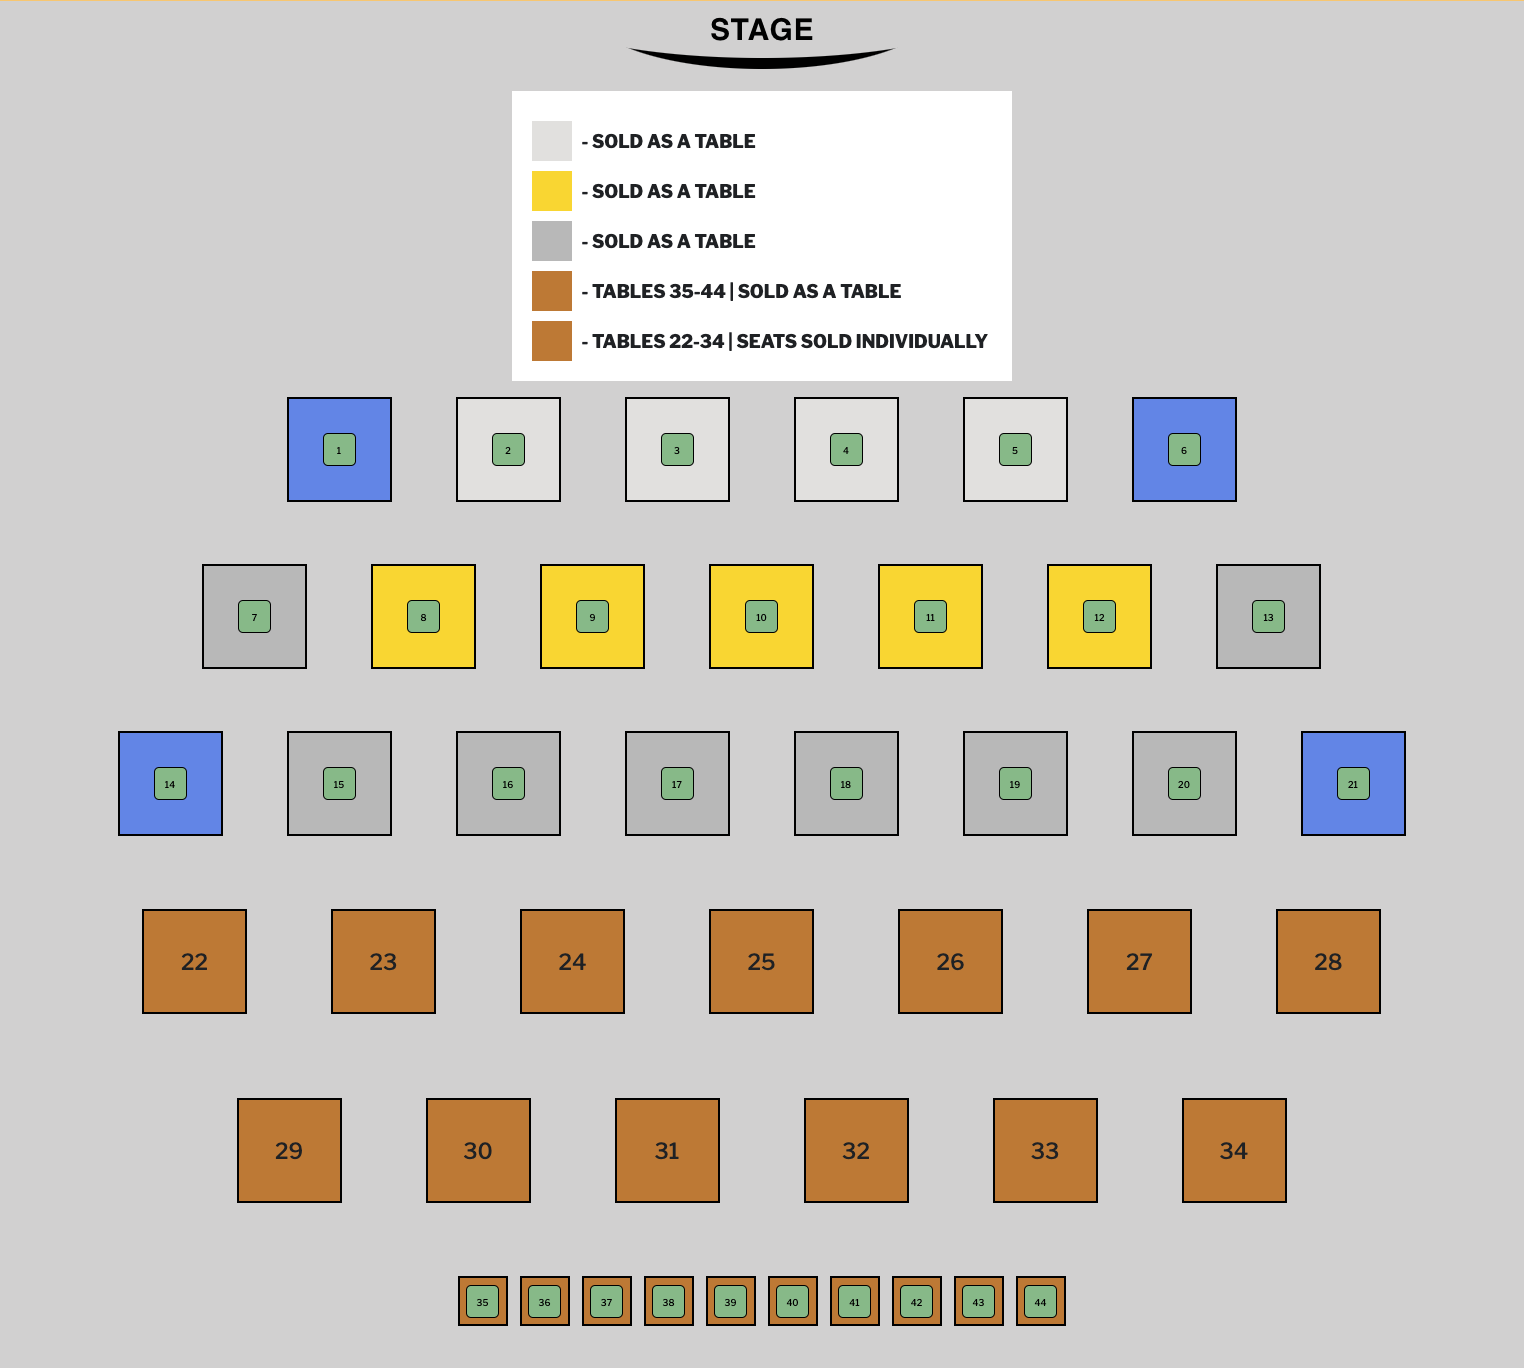
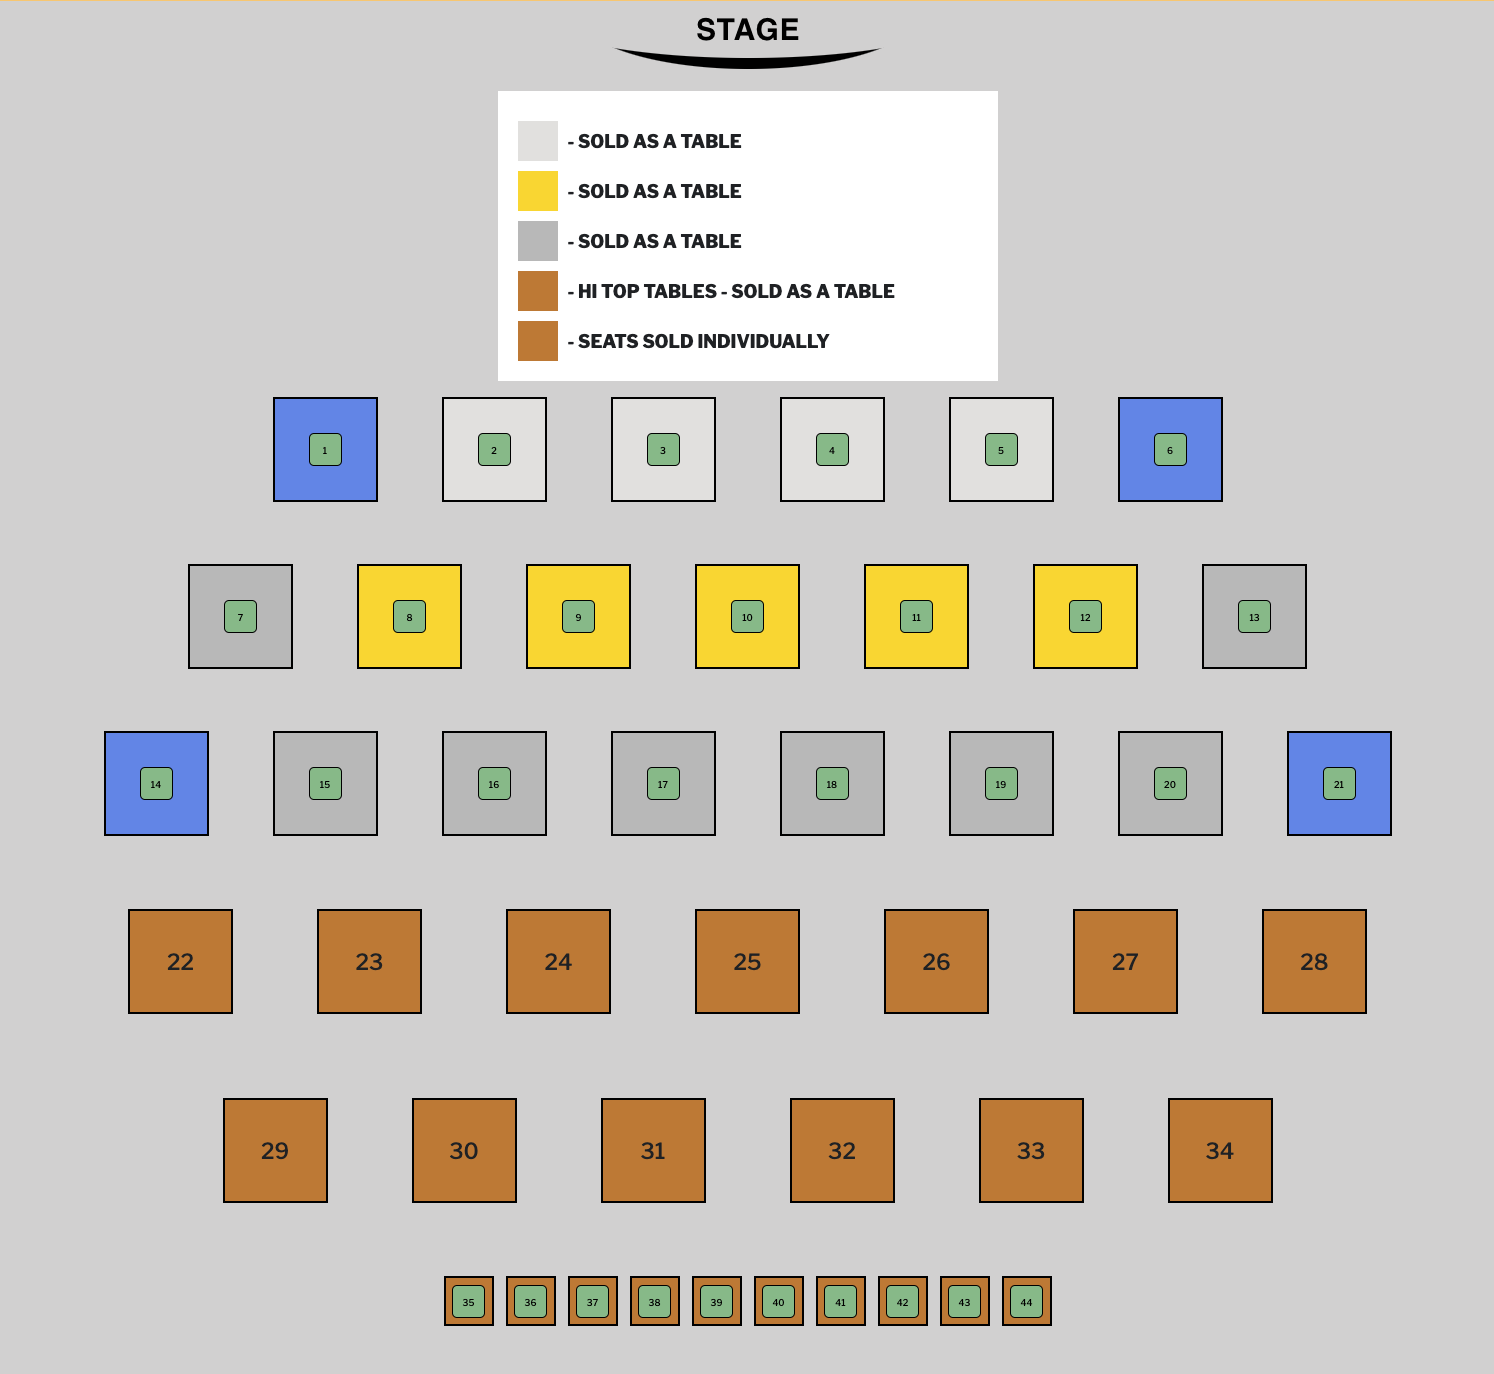
fixes

diff --git a/Completed/37769.html b/Completed/37769.html
@@ -1,0 +1,131 @@
+<!-- SkyView Academy High School -->
+<table width="100%" border="0" cellspacing="0" cellpadding="0" align="center">
+  <!-- Stage Image -->
+  <tr>
+    <td>
+      <div align="center">
+        <img
+          src="https://s3.amazonaws.com/prdv2-dt-client/seating_images/stage.png"
+          alt="STAGE"
+          width="300"
+          height="80"
+        />
+      </div>
+    </td>
+  </tr>
+
+  <tr>
+    <td>
+      <div align="center">
+        <img
+          src="https://s3.amazonaws.com/prdv2-dt-client/seating_images/pixel.png"
+          width="1"
+          height="10"
+        />
+      </div>
+    </td>
+  </tr>
+
+  <!-- FRONT -->
+  <tr>
+    <td>
+      <div align="center">
+        <table align="center">
+          <!-- Front Names -->
+          <tr>
+            <td>
+              <div align="center">{{{ sectionNames.49190 }}}</div>
+            </td>
+            <td rowspan="2">
+              <div align="center">
+                <img
+                  src="https://s3.amazonaws.com/prdv2-dt-client/seating_images/pixel.png"
+                  width="60"
+                  height="1"
+                />
+              </div>
+            </td>
+            <td>
+              <div align="center">{{{ sectionNames.49191 }}}</div>
+            </td>
+          </tr>
+
+          <!-- Front Seats -->
+          <tr>
+            <td>
+              <div align="center">{{{ sectionsMarkup.49190 }}}</div>
+            </td>
+            <td>
+              <div align="center">{{{ sectionsMarkup.49191 }}}</div>
+            </td>
+          </tr>
+        </table>
+      </div>
+    </td>
+  </tr>
+
+  <tr>
+    <td>
+      <div align="center">
+        <img
+          src="https://s3.amazonaws.com/prdv2-dt-client/seating_images/pixel.png"
+          width="1"
+          height="80"
+        />
+      </div>
+    </td>
+  </tr>
+
+  <!-- BACK -->
+  <tr>
+    <td>
+      <div align="center">
+        <table align="center">
+          <!-- Back Names -->
+          <tr>
+            <td>
+              <div align="center">{{{ sectionNames.49192 }}}</div>
+            </td>
+            <td rowspan="2">
+              <div align="center">
+                <img
+                  src="https://s3.amazonaws.com/prdv2-dt-client/seating_images/pixel.png"
+                  width="60"
+                  height="1"
+                />
+              </div>
+            </td>
+            <td>
+              <div align="center">{{{ sectionNames.49193 }}}</div>
+            </td>
+            <td rowspan="2">
+              <div align="center">
+                <img
+                  src="https://s3.amazonaws.com/prdv2-dt-client/seating_images/pixel.png"
+                  width="60"
+                  height="1"
+                />
+              </div>
+            </td>
+            <td>
+              <div align="center">{{{ sectionNames.49194 }}}</div>
+            </td>
+          </tr>
+
+          <!-- Back Seats -->
+          <tr>
+            <td>
+              <div align="center">{{{ sectionsMarkup.49192 }}}</div>
+            </td>
+            <td>
+              <div align="center">{{{ sectionsMarkup.49193 }}}</div>
+            </td>
+            <td>
+              <div align="center">{{{ sectionsMarkup.49194 }}}</div>
+            </td>
+          </tr>
+        </table>
+      </div>
+    </td>
+  </tr>
+</table>

diff --git a/Completed/37744.html b/Completed/37744.html
@@ -158,7 +158,7 @@
                 margin-right: 10px;
               "
             ></div>
-            <div><strong>- TABLES 35-44 | SOLD AS A TABLE</strong></div>
+            <div><strong>- HI TOP TABLES - SOLD AS A TABLE</strong></div>
           </div>
           <div
             style="
@@ -177,7 +177,7 @@
                 margin-right: 10px;
               "
             ></div>
-            <div><strong>- TABLES 22-34 | SEATS SOLD INDIVIDUALLY</strong></div>
+            <div><strong>- SEATS SOLD INDIVIDUALLY</strong></div>
           </div>
         </div>
       </div>
